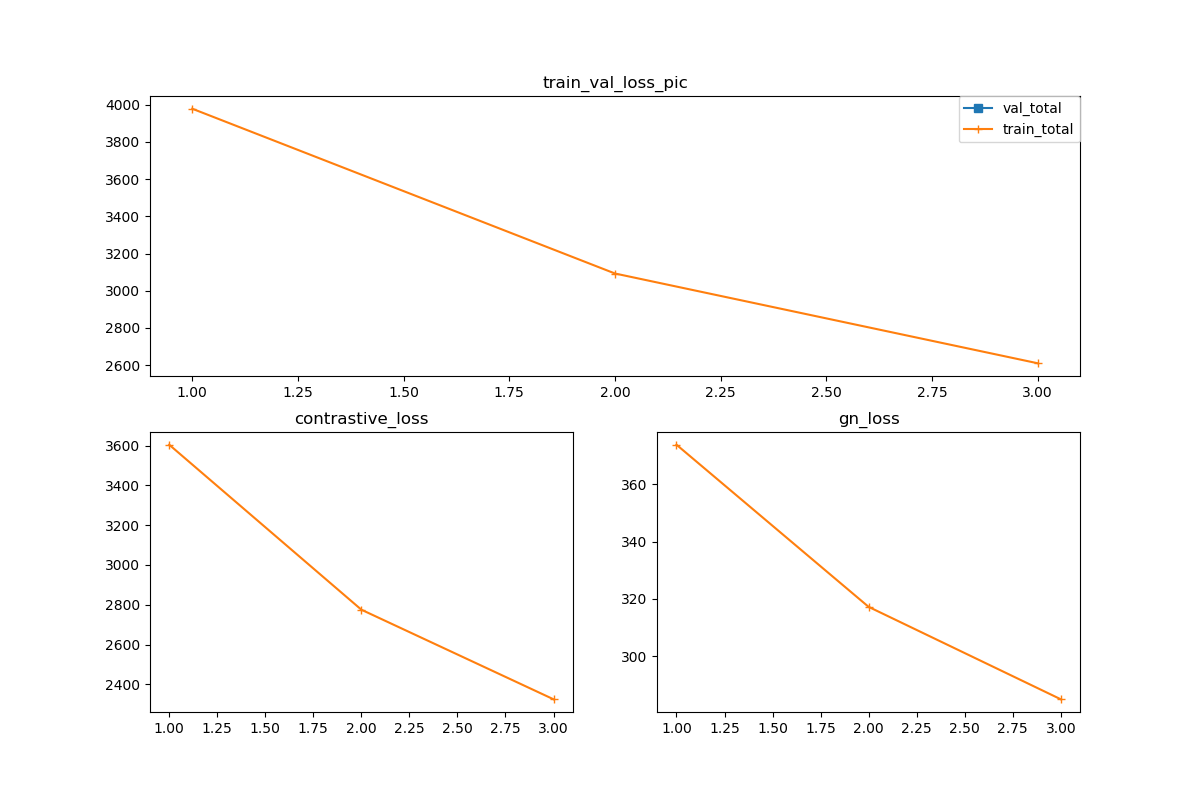
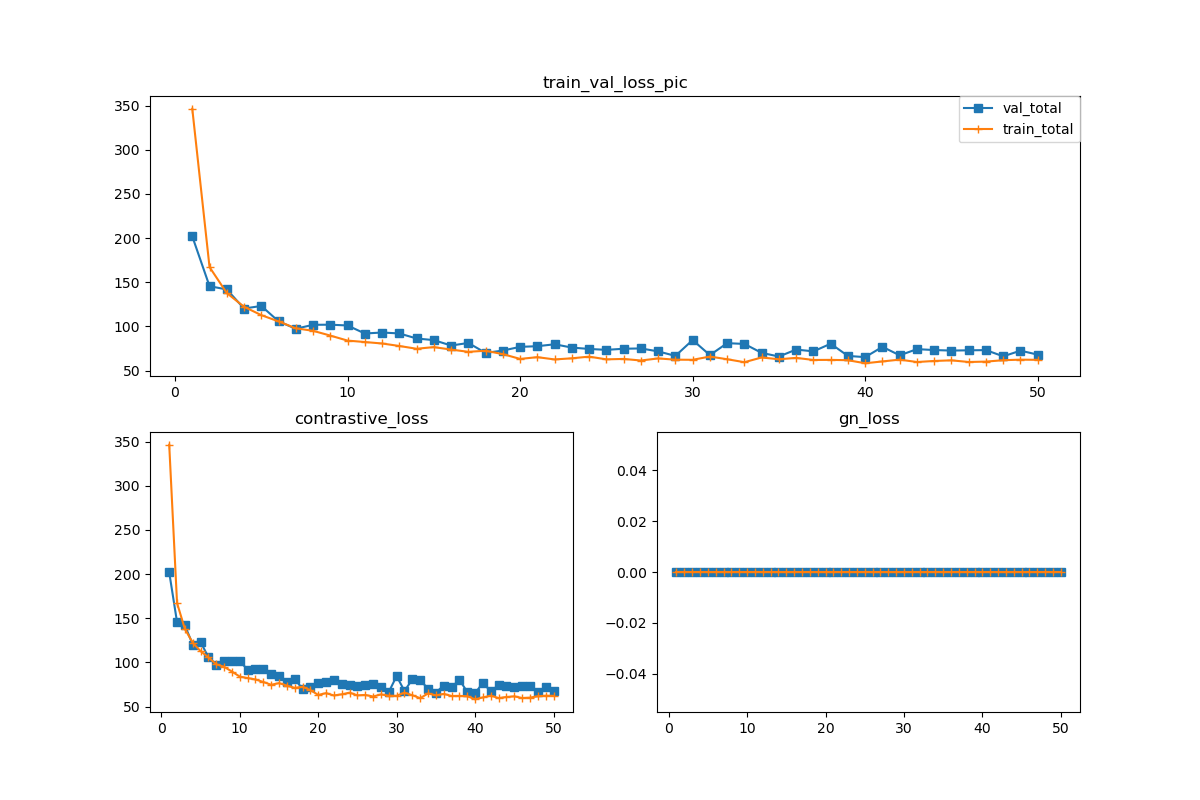
old hardest negative sampler

diff --git a/trainer.py b/trainer.py
@@ -34,10 +34,15 @@ def fit(train_loader, val_loader, model, loss_fn, optimizer, scheduler, n_epochs
     val_y = []
     val_y_contras = []
     val_y_gn = []
+    val_y_loss_pos = [] 
+    val_y_loss_neg = []
+
     train_x = []
     train_y = []
     train_y_contras = []
     train_y_gn = []
+    train_y_loss_pos = [] 
+    train_y_loss_neg = []
 
     for epoch in range(start_epoch, n_epochs):
         # scheduler.step()
@@ -49,25 +54,31 @@ def fit(train_loader, val_loader, model, loss_fn, optimizer, scheduler, n_epochs
         '''
 
         # Train stage
-        train_loss, total_contras_loss, total_gnloss = train_epoch(train_loader, model, loss_fn, optimizer, cuda, log_interval, save_root, init=False)
+        train_loss, total_contras_loss, total_gnloss, total_loss_pos, total_loss_neg = train_epoch(train_loader, model, loss_fn, optimizer, cuda, log_interval, save_root, init=False)
         train_x.append(epoch + 1)
         train_y.append(train_loss)
         train_y_contras.append(total_contras_loss)
         train_y_gn.append(total_gnloss)
+        train_y_loss_pos.append(total_loss_pos)
+        train_y_loss_neg.append(total_loss_neg)
 
         scheduler.step()
         message = '\nEpoch: {}/{}. Train set: Average loss: {:.4f}\tcontrastive loss: {:.6f}\tgn loss: {:.6f}'.format(epoch + 1, n_epochs, train_loss, total_contras_loss, total_gnloss)
         message += ' Lr:{}'.format(get_lr(optimizer))
         if val_loader and (epoch % validation_frequency == 0):
-            val_loss, val_contras_loss, val_gnloss = test_epoch(val_loader, model, loss_fn, cuda)
+            val_loss, val_contras_loss, val_gnloss, val_loss_pos, val_loss_neg = test_epoch(val_loader, model, loss_fn, cuda)
             val_loss /= len(val_loader)
             val_contras_loss /= len(val_loader)
             val_gnloss /= len(val_loader)
+            val_loss_pos /= len(val_loader)
+            val_loss_neg /= len(val_loader)
 
             val_x.append(epoch + 1)
             val_y.append(val_loss)
             val_y_contras.append(val_contras_loss)
             val_y_gn.append(val_gnloss)
+            val_y_loss_pos.append(val_loss_pos)
+            val_y_loss_neg.append(val_loss_neg)
 
             message += '\nEpoch: {}/{}. Validation set: Average loss: {:.4f}\tcontrastive loss: {:.6f}\tgn loss: {:.6f}'.format(epoch + 1, n_epochs, val_loss, val_contras_loss, val_gnloss)
             # save the currently best model
@@ -83,19 +94,38 @@ def fit(train_loader, val_loader, model, loss_fn, optimizer, scheduler, n_epochs
             save_checkpoint(model.state_dict(), False, save_root, str(epoch))
         print(message)
 
+        # plt.figure(figsize=(12,8))
+        # # plt.subplot(2, 2, 1)
+        # plt.title("all_loss")
+        # # plt.xlabel("epoch")
+        # # plt.ylabel("loss_value")
+        # plt.plot(val_x, val_y, "-s", label='val_total')
+        # plt.plot(val_x, val_y_contras, "-o", label='val_contrastive')
+        # plt.plot(val_x, val_y_gn, "-*", label='val_gn')
+        # plt.plot(train_x, train_y, "+-", label='train_total')
+        # plt.plot(train_x, train_y_contras, "-x", label='train_contrastive')
+        # plt.plot(train_x, train_y_gn, "->", label='train_gn')
+        # plt.legend(bbox_to_anchor=(1.0, 1), loc=1, borderaxespad=0.)
+        # plt.savefig("./all_loss_pic.png")
+
         plt.figure(figsize=(12,8))
-        # plt.subplot(2, 2, 1)
-        plt.title("all_loss")
+        plt.subplot(2, 1, 1)
+        plt.title("loss pos")
         # plt.xlabel("epoch")
         # plt.ylabel("loss_value")
-        plt.plot(val_x, val_y, "-s", label='val_total')
-        plt.plot(val_x, val_y_contras, "-o", label='val_contrastive')
-        plt.plot(val_x, val_y_gn, "-*", label='val_gn')
-        plt.plot(train_x, train_y, "+-", label='train_total')
-        plt.plot(train_x, train_y_contras, "-x", label='train_contrastive')
-        plt.plot(train_x, train_y_gn, "->", label='train_gn')
+        plt.plot(val_x, val_y_loss_pos, "-s", label='val_total')
+        plt.plot(train_x, train_y_loss_pos, "+-", label='train_total')
         plt.legend(bbox_to_anchor=(1.0, 1), loc=1, borderaxespad=0.)
-        plt.savefig("./all_loss_pic.png")
+
+        plt.subplot(2, 1, 2)
+        plt.title("loss neg")
+        # plt.xlabel("epoch")
+        # plt.ylabel("loss_value")
+        plt.plot(val_x, val_y_loss_neg, "-s", label='val_total')
+        plt.plot(train_x, train_y_loss_neg, "+-", label='train_total')
+        plt.legend(bbox_to_anchor=(1.0, 1), loc=1, borderaxespad=0.)
+        plt.savefig("./contrastive_loss_pic.png")
+
 
         plt.figure(figsize=(12,8))
         plt.subplot(2, 1, 1)
@@ -144,9 +174,13 @@ def train_epoch(train_loader, model, loss_fn, optimizer, cuda, log_interval, sav
     losses = []
     contras_losses = []
     gnlosses = []
+    pos_losses = []
+    neg_losses = []
     total_loss = 0
     total_contras_loss = 0
     total_gnloss = 0
+    total_loss_pos = 0
+    total_loss_neg = 0
 
     for batch_idx, (img_ab, corres_ab) in enumerate((train_loader)):
         corres_ab = corres_ab if len(corres_ab) > 0 else None
@@ -157,10 +191,10 @@ def train_epoch(train_loader, model, loss_fn, optimizer, cuda, log_interval, sav
             if corres_ab is not None:
                 # corres_ab = corres_ab.cuda()
                 # modified
-                # corres_ab = {key: corres_ab[key].to(device) for key in corres_ab}
+                corres_ab = {key: corres_ab[key].to(device) for key in corres_ab}
                 # modified by jzm
-                for c in corres_ab:
-                    c = {key: c[key].to(device) for key in c}
+                # for c in corres_ab:
+                #     c = {key: c[key].to(device) for key in c}
 
         optimizer.zero_grad()
         outputs = model(*img_ab)
@@ -176,19 +210,25 @@ def train_epoch(train_loader, model, loss_fn, optimizer, cuda, log_interval, sav
             corres_ab = (corres_ab,)
             loss_inputs += corres_ab
 
-        loss_outputs, contras_loss_outputs, gnloss_outputs = loss_fn(*loss_inputs)
+        loss_outputs, contras_loss_outputs, gnloss_outputs, loss_pos_outputs, loss_neg_outputs = loss_fn(*loss_inputs)
         loss = loss_outputs[0] if type(loss_outputs) in (tuple, list) else loss_outputs
         contras_loss = contras_loss_outputs[0] if type(contras_loss_outputs) in (tuple, list) else contras_loss_outputs
         gnloss = gnloss_outputs[0] if type(gnloss_outputs) in (tuple, list) else gnloss_outputs
+        loss_pos = loss_pos_outputs[0] if type(loss_pos_outputs) in (tuple, list) else loss_pos_outputs
+        loss_neg = loss_neg_outputs[0] if type(loss_neg_outputs) in (tuple, list) else loss_neg_outputs
 
         losses.append(loss.item())
         contras_losses.append(contras_loss.item())
         gnlosses.append(gnloss.item())
+        pos_losses.append(loss_pos.item())
+        neg_losses.append(loss_neg.item())
 
         total_loss += loss.item()
         total_contras_loss += contras_loss.item()
         total_gnloss += gnloss.item()
-        
+        total_loss_pos += loss_pos.item()
+        total_loss_neg += loss_neg.item()
+
         loss.backward()
         optimizer.step()
 
@@ -201,6 +241,8 @@ def train_epoch(train_loader, model, loss_fn, optimizer, cuda, log_interval, sav
             losses = []
             contras_losses = []
             gnlosses = []
+            pos_losses = []
+            neg_losses = []
 
         del img_ab
         del corres_ab
@@ -208,7 +250,9 @@ def train_epoch(train_loader, model, loss_fn, optimizer, cuda, log_interval, sav
     total_loss /= (batch_idx + 1)
     total_contras_loss /= (batch_idx + 1)
     total_gnloss /= (batch_idx + 1)
-    return total_loss, total_contras_loss, total_gnloss
+    total_loss_pos /= (batch_idx + 1)
+    total_loss_neg /= (batch_idx + 1)
+    return total_loss, total_contras_loss, total_gnloss, total_loss_pos, total_loss_neg
 
 
 def test_epoch(val_loader, model, loss_fn, cuda):
@@ -217,6 +261,8 @@ def test_epoch(val_loader, model, loss_fn, cuda):
         val_loss = 0
         val_contras_loss = 0
         val_gnloss = 0
+        val_loss_pos = 0
+        val_loss_neg = 0
         for batch_idx, (img_ab, corres_ab) in enumerate(val_loader):
             corres_ab = corres_ab if len(corres_ab) > 0 else None
             if not type(img_ab) in (tuple, list):
@@ -224,9 +270,9 @@ def test_epoch(val_loader, model, loss_fn, cuda):
             if cuda:
                 img_ab = tuple(d.to(device) for d in img_ab)
                 if corres_ab is not None:
-                    # corres_ab = {key: corres_ab[key].to(device) for key in corres_ab}
-                    for c in corres_ab:
-                        c = {key: c[key].to(device) for key in c}
+                    corres_ab = {key: corres_ab[key].to(device) for key in corres_ab}
+                    # for c in corres_ab:
+                    #     c = {key: c[key].to(device) for key in c}
 
             outputs = model(*img_ab)
 
@@ -237,16 +283,20 @@ def test_epoch(val_loader, model, loss_fn, cuda):
                 corres_ab = (corres_ab,)
                 loss_inputs += corres_ab
 
-            loss_outputs, contras_loss_outputs, gnloss_outputs = loss_fn(*loss_inputs)
+            loss_outputs, contras_loss_outputs, gnloss_outputs, loss_pos_outputs, loss_neg_outputs = loss_fn(*loss_inputs)
             loss = loss_outputs[0] if type(loss_outputs) in (tuple, list) else loss_outputs
             contras_loss = contras_loss_outputs[0] if type(contras_loss_outputs) in (tuple, list) else contras_loss_outputs
             gnloss = gnloss_outputs[0] if type(gnloss_outputs) in (tuple, list) else gnloss_outputs
+            loss_pos = loss_pos_outputs[0] if type(loss_pos_outputs) in (tuple, list) else loss_pos_outputs
+            loss_neg = loss_neg_outputs[0] if type(loss_neg_outputs) in (tuple, list) else loss_neg_outputs
             val_loss += loss.item()
             val_contras_loss += contras_loss.item()
             val_gnloss += gnloss.item()
+            val_loss_pos += loss_pos.item()
+            val_loss_neg += loss_neg.item()
 
 
             # for metric in metrics:
             #     metric(outputs, target, loss_outputs)
 
-    return val_loss, val_contras_loss, val_gnloss
+    return val_loss, val_contras_loss, val_gnloss, val_loss_pos, val_loss_neg

diff --git a/run.py b/run.py
@@ -15,7 +15,7 @@ parser.add_argument('--dataset_name', type=str, default='cmu')
 parser.add_argument('--dataset_image_folder', type=str, default='images')
 parser.add_argument('--pair_info_folder', type=str, default='correspondence_data')
 parser.add_argument('--query_folder', type=str, default='query')
-parser.add_argument('--all_slice', type=bool, default=False)
+parser.add_argument('--all_slice', type=bool, default=True)
 parser.add_argument('--slice', type=int, default=6)
 parser.add_argument('--transform', type=bool, default=True)
 parser.add_argument('--start_epoch', type=int, default=0)
@@ -26,14 +26,14 @@ parser.add_argument('--init', type=bool, default=True, help="Initialize the netw
 parser.add_argument('--batch_size', '-b', type=int, default=2, help="Batch size")
 parser.add_argument('--num_workers', '-n', type=int, default=16, help="Number of workers")
 parser.add_argument('--lr', type = float, default=1e-6)
-parser.add_argument('--schedule_lr_frequency', type=int, default=5, help='in number of iterations (0 for no schedule)')
-parser.add_argument('--schedule_lr_fraction', type=float, default=1)
+parser.add_argument('--schedule_lr_frequency', type=int, default=20, help='in number of iterations (0 for no schedule)')
+parser.add_argument('--schedule_lr_fraction', type=float, default=0.1)
 parser.add_argument('--scale', type=int, default = 2, help="Scaling factor for input image")
 parser.add_argument('--save_root', type=str, default = '/local/home/lixxue/gnnet/gn_net_data')
-parser.add_argument('--gn_loss_lamda', type=float, default=0.005)
+parser.add_argument('--gn_loss_lamda', type=float, default=0)
 parser.add_argument('--contrastive_lamda', type=float, default=1000)
 parser.add_argument('--weight_decay', type=float, default=0.001)
-parser.add_argument('--num_matches', type=float, default=2000)
+parser.add_argument('--num_matches', type=float, default=1000)
 parser.add_argument('--resume_checkpoint', type=str, default=None)
 parser.add_argument('--nearest', type=bool, default=True, help="upsampling mode")
 parser.add_argument('--bilinear', type=bool, default=False, help="upsampling mode")
@@ -66,7 +66,7 @@ print('num_valset: {} \n'.format(num_valset))
 
 print('Arguments & hyperparams: ')
 print(args)
-print("contrstive loss lambda=100, num_of_pairs=2000")
+
 
 cuda = torch.cuda.is_available()
 device = torch.device("cuda:0" if cuda else "cpu")

diff --git a/network/gn_loss.py b/network/gn_loss.py
@@ -154,8 +154,11 @@ class GNLoss(nn.Module):
         '''
         # for c in known_matches:
         #     c = {key: c[key].to(device) for key in c}
-        positive_matches = known_matches[0]
-        negative_matches = known_matches[1]
+        
+        # modified: if use hard
+        # positive_matches = known_matches[0]
+        # negative_matches = known_matches[1]
+        positive_matches = known_matches
         self.max_size_x = F_a[-1].shape[3]  # B x C x H x W
         self.max_size_y = F_a[-1].shape[2]
         '''get neg pairs, do it only for the finest feature'''
@@ -165,10 +168,15 @@ class GNLoss(nn.Module):
         # fa_4_sliced_reshape = fa_4_sliced.reshape((B,N,C))
         fb_4_sliced = self.extract_features(F_b[-1], positive_matches['b'] / self.img_scale)  # //4
         # fb_4_sliced_reshape = fb_4_sliced.reshape((B,N,C))
+        # get hard negative samples
+        negative_matches = self.pair_selector.get_pairs(fa_4_sliced, fb_4_sliced, known_matches, self.img_scale) #//.cuda 4 inside pair selector
+        
         '''compute loss for each scale'''
         loss = 0
         contras_loss = 0
         gnloss = 0
+        pos_loss = 0
+        neg_loss = 0
         N = positive_matches['a'].shape[1]  # the number of pos and neg matches
         for i in range(len(F_a)):
             level = np.power(2, 3 - i)
@@ -194,5 +202,7 @@ class GNLoss(nn.Module):
             loss = self.contrastive_lamda*(loss_pos + loss_neg) + (self.gn_lamda * loss_gn) + loss
             contras_loss = self.contrastive_lamda*(loss_pos + loss_neg) + contras_loss
             gnloss = (self.gn_lamda * loss_gn) + gnloss
+            pos_loss = self.contrastive_lamda*loss_pos + pos_loss
+            neg_loss = self.contrastive_lamda*loss_neg + neg_loss
         # print('contrastive loss: {}, gn loss: {}'.format((loss_pos + loss_neg), self.lamda * loss_gn))
-        return loss, contras_loss, gnloss
+        return loss, contras_loss, gnloss, pos_loss, neg_loss

diff --git a/cmu_dataset.py b/cmu_dataset.py
@@ -128,10 +128,14 @@ class CMUDataset(Dataset):
             img_a = self.default_transform(Image.open(img_a))
             img_b = self.default_transform(Image.open(img_b))
         pos_a, pos_b = random_select_positive_matches(a, b, num_of_pairs=self._data['num_matches'])
-        neg_a, neg_b = random_select_negative_matches_whole_image(a, b, h=self._data['scale']*img_a.shape[1], w=self._data['scale']*img_a.shape[2] ,num_of_pairs=self._data['num_matches'])
+        # modified: if use hard
+        # neg_a, neg_b = random_select_negative_matches_whole_image(a, b, h=self._data['scale']*img_a.shape[1], w=self._data['scale']*img_a.shape[2] ,num_of_pairs=self._data['num_matches'])
         corres_ab_pos = {'a': pos_a, 'b': pos_b}
-        corres_ab_neg = {'a':neg_a, 'b':neg_b}
-        return (img_a, img_b), (corres_ab_pos,corres_ab_neg)
+        # modified: if use hard
+        # corres_ab_neg = {'a':neg_a, 'b':neg_b}
+        # modified: if use hard
+        # return (img_a, img_b), (corres_ab_pos,corres_ab_neg)
+        return (img_a, img_b), (corres_ab_pos)
         # return (img_a, img_b), corres_ab_pos
 
     def __len__(self):
